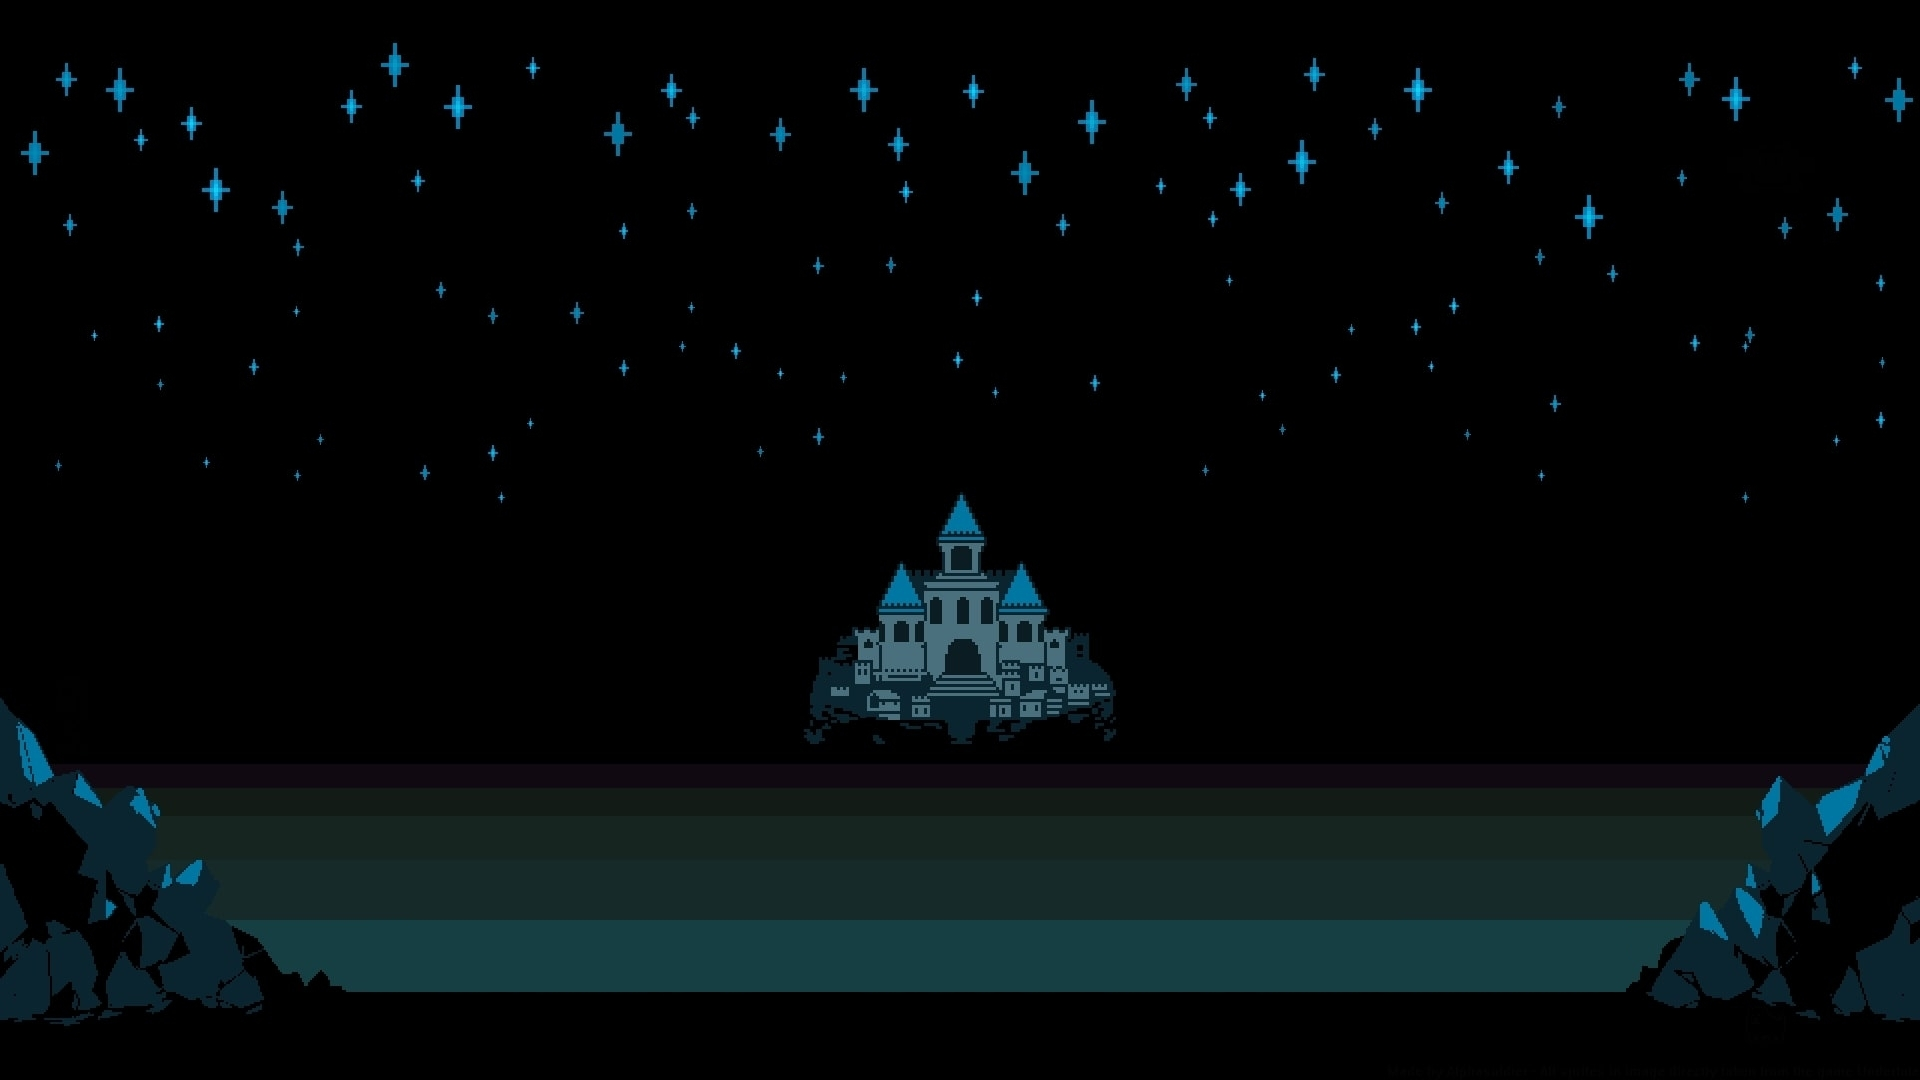
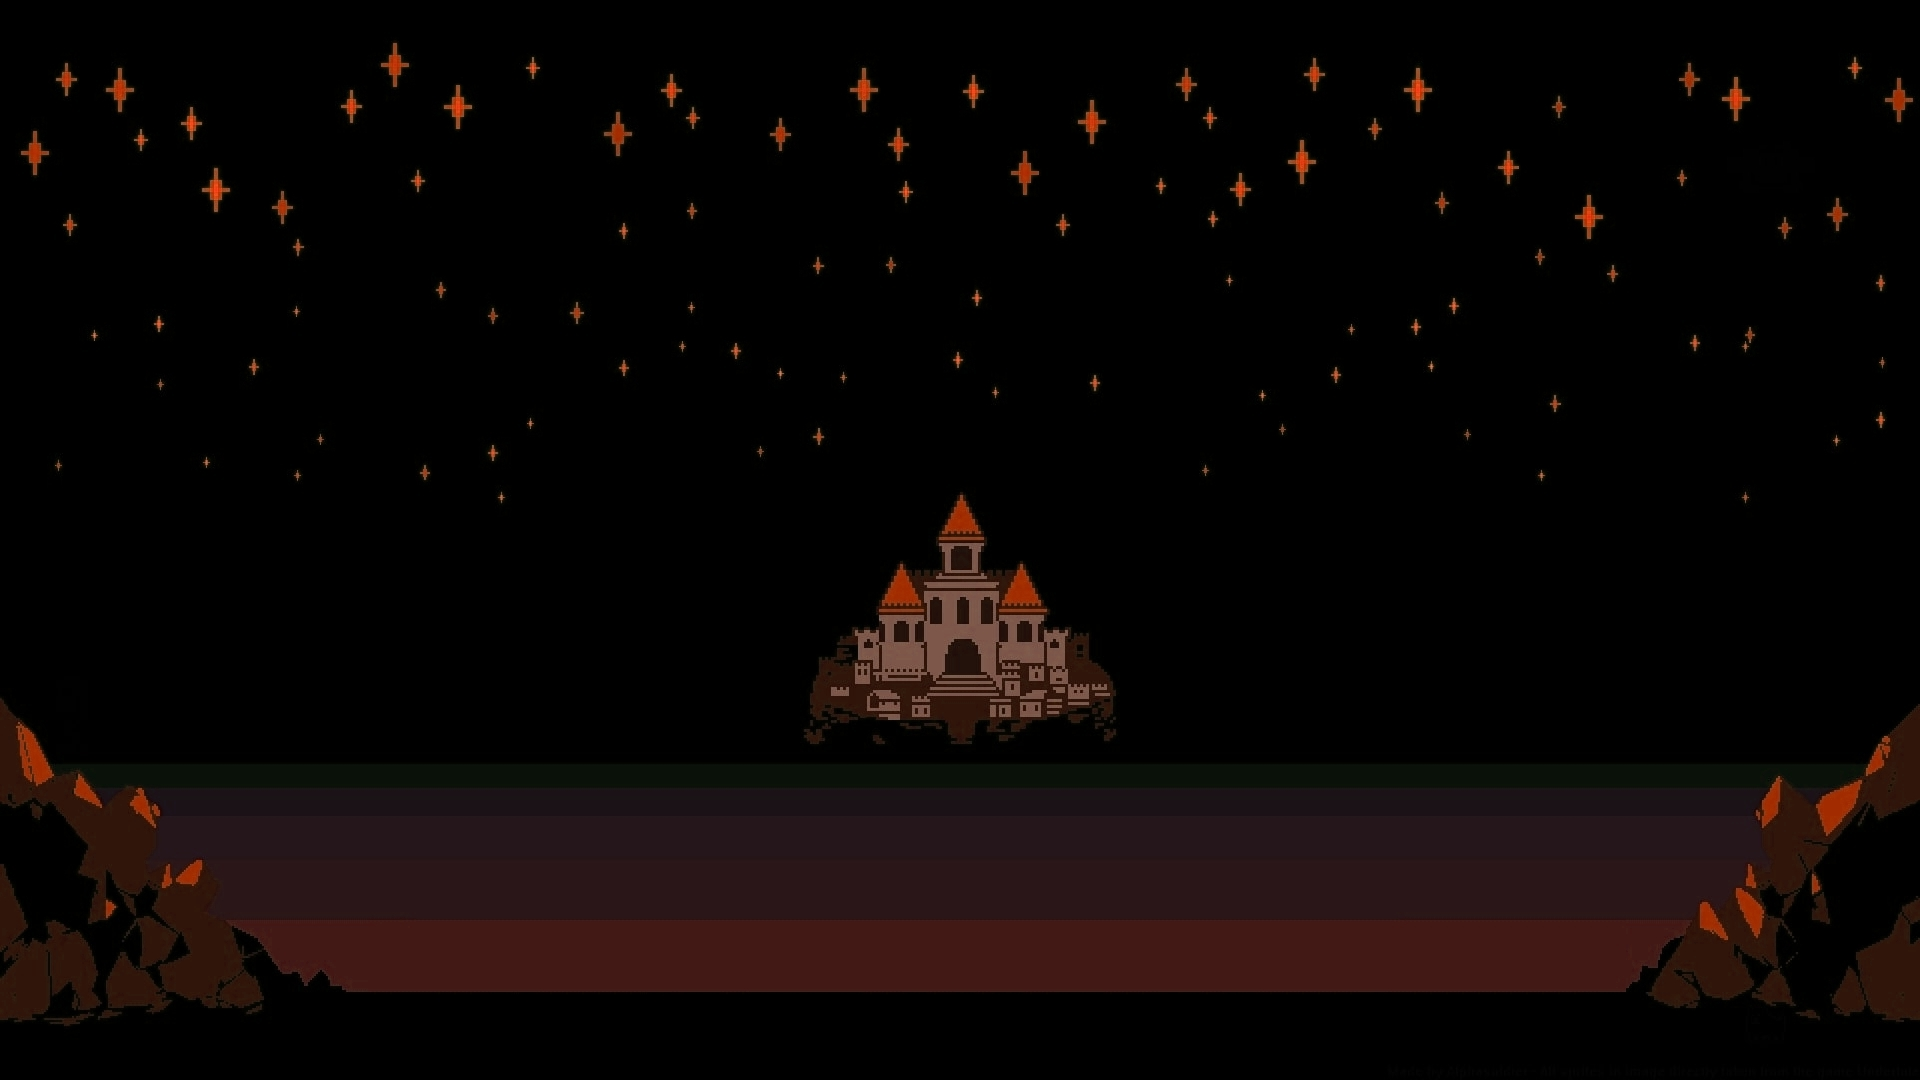
Continued work on undertale theme

diff --git a/global/colours.css b/global/colours.css
@@ -1,10 +1,10 @@
 @define-color foreground #fff;
-@define-color background #0998C2;
+@define-color background #DD3D10;
 @define-color cursor #e5d9db;
 
-@define-color left-module #0998C2;
-@define-color centre-module #0998C2;
-@define-color right-module #0998C2;
+@define-color left-module #DD3D10;
+@define-color centre-module #DD3D10;
+@define-color right-module #DD3D10;
 
 @define-color noti-color #087DA1;
 @define-color noti-color-dark #065F7A;

diff --git a/scripts/theme_swapper/Themes/Undertale/colours.css b/scripts/theme_swapper/Themes/Undertale/colours.css
@@ -1,10 +1,10 @@
 @define-color foreground #fff;
-@define-color background #0998C2;
+@define-color background #DD3D10;
 @define-color cursor #e5d9db;
 
-@define-color left-module #0998C2;
-@define-color centre-module #0998C2;
-@define-color right-module #0998C2;
+@define-color left-module #DD3D10;
+@define-color centre-module #DD3D10;
+@define-color right-module #DD3D10;
 
 @define-color noti-color #087DA1;
 @define-color noti-color-dark #065F7A;

diff --git a/scripts/theme_swapper/scripts/SetTheme.py b/scripts/theme_swapper/scripts/SetTheme.py
@@ -25,8 +25,9 @@ def change_file(THEME: str, BASE_FILE_NAME: str,FILE_NAME: str):
 def update_theme(THEME: str):
     change_file(THEME, COLOURS_FILE, "colours.css")
     change_file(THEME, WALLPAPER1, "wallpaper1.jpg")
-    os.system(f"notify-send \" Changed theme to f{THEME} \"")
+    os.system(f"notify-send -t 700 \" Changed theme to {THEME} \"")
     os.system("killall hyprpaper; hyprpaper")
+    os.system("wal -c")
 
 def main():
     theme = select_theme(CURRENT_DIR)
